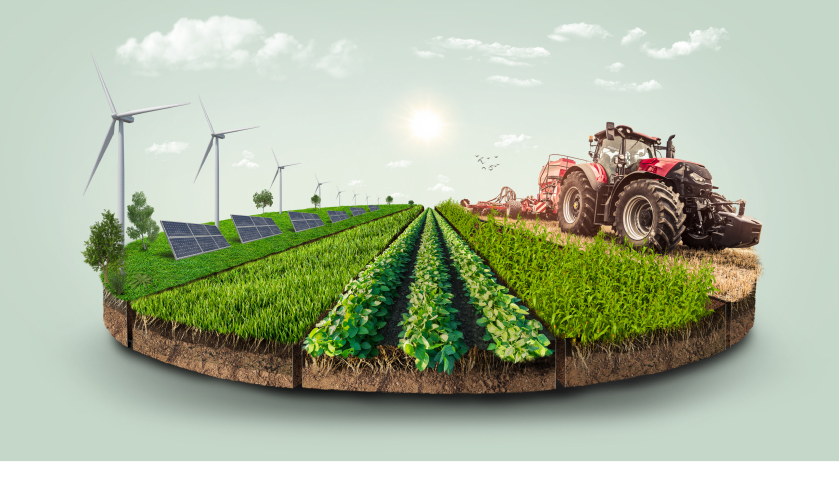
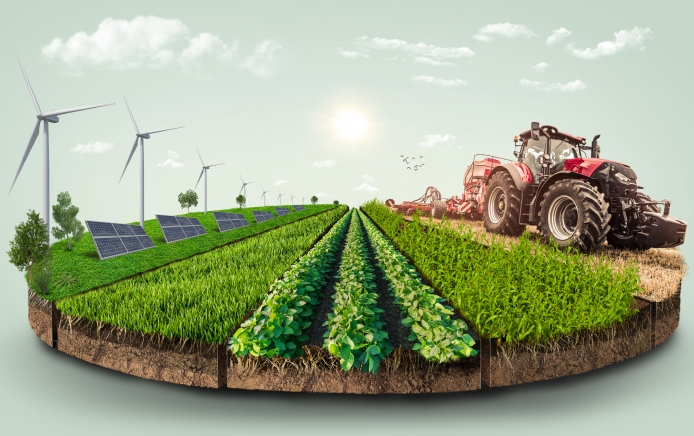
home hero image

diff --git a/client/src/app/pages/about_page/about.css b/client/src/app/pages/about_page/about.css
@@ -134,6 +134,7 @@
   background-size: cover;
   padding-bottom: 10%;
   background-position: 0 500px;
+  position: relative;
 }
 .about .buttons .col {
   color: white;
@@ -164,56 +165,136 @@
   min-width: max-content;
   width: fit-content;
 }
-.about .numbers .num {
+.about .buttons .num {
   background-color: #19443f;
   color: white;
   padding: 7px;
   border-radius: 50%;
   font-weight: 700;
-  width: 30px;
+  width: 30px !important;
   height: 30px;
   display: flex;
   justify-content: center;
   align-items: center;
   position: absolute;
 }
-.about .numbers .num:nth-child(1) {
+.about .buttons .col:nth-child(1) .num {
+  display: none;
+  position: absolute;
   top: 6%;
   left: 50%;
 }
-.about .numbers .num:nth-child(2) {
-  left: 75%;
-  top: 95%;
+.about .buttons .col:nth-child(1):hover .num {
+  display: flex;
+  transform: scale(1.2);
 }
-.about .numbers .num:nth-child(3) {
-    left: 79%;
-    top: 9%;
+.about .buttons .col:nth-child(1):hover .block1 {
+  transform: scale(1.02);
+  display: block;
 }
-.about .numbers .num:nth-child(4) {
-  left: 30%;
-  top: 47%;
-}
-.about .numbers .num:nth-child(5) {
-    left: 72%;
-    top: 45%;
-}
-.about .numbers .num:nth-child(6) {
-  left: 26%;
-  top: 9%;
-}
-.about .numbers .num:nth-child(7) {
-  left: 25%;
-  top: 95%;
-}
-.about .numbers .num:nth-child(8) {
-  left: 56%;
-  top: 47%;
-}
-/* .about .buttons .col:nth-child(1):hover .num:nth-child(8){
-    transform: scale(1.4);
-} */
 
-.num:nth-child(1):hover ~ .buttons .col:nth-child(1) {
-    transform: translateY(-20px);
-    transition: transform 0.2s ease;
+.about .buttons .col:nth-child(2) .num {
+  display: none;
+  position: absolute;
+  left: 68%;
+  top: 65%;
+}
+.about .buttons .col:nth-child(2):hover .num {
+  display: flex;
+  transform: scale(1.2);
+}
+.about .buttons .col:nth-child(2):hover .block2 {
+  transform: scale(1.3);
+  display: block;
+}
+
+.about .buttons .col:nth-child(3) .num {
+  display: none;
+  position: absolute;
+  left: 71%;
+  top: 10%;
+}
+.about .buttons .col:nth-child(3):hover .num {
+  display: flex;
+  transform: scale(1.2);
+}
+.about .buttons .col:nth-child(3):hover .block3 {
+  transform: scale(1.3);
+  display: block;
+}
+
+.about .buttons .col:nth-child(4) .num {
+  display: none;
+  position: absolute;
+  left: 37%;
+  top: 33%;
+}
+.about .buttons .col:nth-child(4):hover .num {
+  display: flex;
+  transform: scale(1.2);
+}
+.about .buttons .col:nth-child(4):hover .block4 {
+  transform: scale(1.3);
+  display: block;
+}
+
+.about .buttons .col:nth-child(5) .num {
+  display: none;
+  position: absolute;
+  left: 66%;
+  top: 34%;
+}
+.about .buttons .col:nth-child(5):hover .num {
+  display: flex;
+  transform: scale(1.2);
+}
+.about .buttons .col:nth-child(5):hover .block5 {
+  transform: scale(1.3);
+  display: block;
+}
+
+.about .buttons .col:nth-child(6) .num {
+  display: none;
+  position: absolute;
+  left: 34%;
+  top: 10%;
+}
+.about .buttons .col:nth-child(6):hover .num {
+  display: flex;
+  transform: scale(1.2);
+}
+.about .buttons .col:nth-child(6):hover .block6 {
+  transform: scale(1.3);
+  display: block;
+}
+
+.about .buttons .col:nth-child(7) .num {
+  display: none;
+  position: absolute;
+  left: 37%;
+  top: 65%;
+}
+.about .buttons .col:nth-child(7):hover .num {
+  display: flex;
+  transform: scale(1.2);
+}
+.about .buttons .col:nth-child(7):hover .block7 {
+  transform: scale(1.3);
+  display: block;
+}
+
+.about .buttons .col:nth-child(8) .num {
+  display: none;
+  position: absolute;
+  left: 55%;
+  top: 33%;
+}
+
+.about .buttons .col:nth-child(8):hover .num {
+  display: flex;
+  transform: scale(1.2);
+}
+.about .buttons .col:nth-child(8):hover .block8 {
+  transform: scale(1.3);
+  display: block;
 }

diff --git a/client/src/app/pages/about_page/about.jsx b/client/src/app/pages/about_page/about.jsx
@@ -82,67 +82,58 @@ const About = () => {
               </h4>
             </div>
             <div className="tech-img tech-back-img">
-              <div className="numbers">
-                <div className="num">1</div>
-                <div className="num">2</div>
-                <div className="num">3</div>
-                <div className="num">4</div>
-                <div className="num">5</div>
-                <div className="num">6</div>
-                <div className="num">7</div>
-                <div className="num">8</div>
-              </div>
+              <div className="numbers"></div>
               <img src={tech} alt="" />
             </div>
             <div className="tech-keywords">
               <div className="tech-back-img">
                 <div className="buttons row">
                   <div className="col">
-                    {" "}
                     <div>
-                      <p>Smart Irrigation Systems</p>
+                      <div className="num">1</div>
+                      <p className="block1">Smart Irrigation Systems</p>
                     </div>
                   </div>
                   <div className="col">
-                    {" "}
                     <div>
-                      <p>Drones and UAVs</p>
+                      <div className="num">2</div>
+                      <p className="block2">Drones and UAVs</p>
                     </div>
                   </div>
                   <div className="col">
-                    {" "}
                     <div>
-                      <p>Surveillance</p>
+                      <div className="num">3</div>
+                      <p className="block3">Surveillance</p>
                     </div>
                   </div>
                   <div className="col">
-                    {" "}
                     <div>
-                      <p>Greenhouse</p>
+                      <div className="num">4</div>
+                      <p className="block4">Greenhouse</p>
                     </div>
                   </div>
                   <div className="col">
-                    {" "}
                     <div>
-                      <p>Climate Monitoring</p>
+                      <div className="num">5</div>
+                      <p className="block5">Climate Monitoring</p>
                     </div>
                   </div>
                   <div className="col">
-                    {" "}
                     <div>
-                      <p>High Tech Machinery</p>
+                      <div className="num">6</div>
+                      <p className="block6">High Tech Machinery</p>
                     </div>
                   </div>
                   <div className="col">
-                    {" "}
                     <div>
-                      <p>Precision Agriculture</p>
+                      <div className="num">7</div>
+                      <p className="block7">Precision Agriculture</p>
                     </div>
                   </div>
                   <div className="col">
-                    {" "}
                     <div>
-                      <p>Biological Pest Control</p>
+                      <div className="num">8</div>
+                      <p className="block8">Biological Pest Control</p>
                     </div>
                   </div>
                 </div>

diff --git a/client/src/app/pages/home_page/dashboard.jsx b/client/src/app/pages/home_page/dashboard.jsx
@@ -9,6 +9,7 @@ import { useFetch } from "../../hooks/api_hook.js";
 import FeaturedProductCard from "./components/feature_product.jsx";
 import FeatureCarouselCard from "./components/featureProductCarousal/featureProductCarousal.jsx";
 import { useNavigate } from "react-router-dom";
+import homehero from "../../assets/homepage-main.png"
 const Dashboard = () => {
   const navigate = useNavigate();
   const { data: featuredProducts } = useFetch('/api/allProducts');
@@ -43,7 +44,9 @@ const Dashboard = () => {
               <button onClick={(e) => navigate('/shopPage')}>Shop Now</button>
             </div>
           </div>
-          <div className="headingimage col-7"></div>
+          <div className="headingimage col-7">
+            <img src={homehero} alt="" />
+          </div>
         </div>
         <div className="categoryDiv ">
           <div className="product-category">

diff --git a/client/src/app/pages/home_page/home_page.css b/client/src/app/pages/home_page/home_page.css
@@ -17,8 +17,17 @@
 }
 
 .topDiv .headingimage {
-  background: url("../../assets//homepage-main.jpg");
-  background-size: cover;
+  display: flex;
+  justify-content: end;
+  width: 60%;
+  text-align: center;
+  mask-image: radial-gradient(circle, white 40%, rgba(254, 254, 254, 0) 70%);
+}
+.topDiv .headingimage img{
+  /* width: 20%; */
+  max-width: 120%;
+  margin: auto;
+  /* max-height: 100%; */
 }
 
 .topDiv .headingDiv {

diff --git a/client/src/app/pages/header/header.jsx b/client/src/app/pages/header/header.jsx
@@ -31,8 +31,8 @@ const Header = () => {
           </Link>
         </div>
         <div className="login-section col-3">
-          <Link className="register" to="/auth/register">Register</Link>
-          <Link className="signin" to="/auth/login">Sign In</Link>
+          <Link className="register" to="/auth">Register</Link>
+          <Link className="signin" to="/auth">Sign In</Link>
         </div>
       </div>
     </>

diff --git a/client/src/app/pages/blog_grid_page/blog_grid_page.css b/client/src/app/pages/blog_grid_page/blog_grid_page.css
@@ -126,12 +126,13 @@
       height: 42px;
       border-radius: 50%;
       position: absolute;
-      right: 0;
+      right: -0.30rem;
       top: 50%;
       transform: translateY(-21px);
       display: flex;
       align-items: center;
       justify-content: center;
+  
     }
   }
 }
